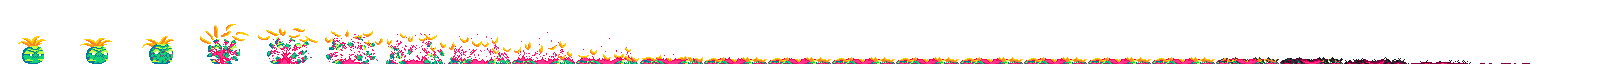
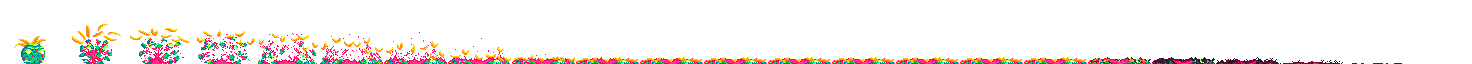
Tweaked enemy death animation and tile size

Changed region(s): [[0.0, 0.375, 0.9688, 1.0], [0.0625, 0.375, 0.0938, 0.4062]]

diff --git a/tiled/tiles.tsx b/tiled/tiles.tsx
@@ -1,4 +1,4 @@
 <?xml version="1.0" encoding="UTF-8"?>
-<tileset version="1.5" tiledversion="1.7.0" name="tiles" tilewidth="16" tileheight="16" tilecount="2" columns="2">
- <image source="../res/tileset.png" width="32" height="16"/>
+<tileset version="1.5" tiledversion="1.7.0" name="tileset" tilewidth="32" tileheight="32" tilecount="2" columns="2">
+ <image source="../res/tileset.png" width="64" height="32"/>
 </tileset>

diff --git a/level.py b/level.py
@@ -50,10 +50,21 @@ class Level:
             self.camera_offset.x = self.player.position.x - (shared.DISPLAY_WIDTH * 0.4)
         elif self.player.position.x - self.camera_offset.x > shared.DISPLAY_WIDTH * 0.6:
             self.camera_offset.x = self.player.position.x - (shared.DISPLAY_WIDTH * 0.6)
+
+        if self.player.position.y - self.camera_offset.y < shared.DISPLAY_HEIGHT * 0.4:
+            self.camera_offset.y = self.player.position.y - (shared.DISPLAY_HEIGHT * 0.4)
+        elif self.player.position.y - self.camera_offset.y > shared.DISPLAY_HEIGHT * 0.6:
+            self.camera_offset.y = self.player.position.y - (shared.DISPLAY_HEIGHT * 0.6)
+
         if self.camera_offset.x < 0:
             self.camera_offset.x = 0
         elif self.camera_offset.x > (len(self.tiles[0]) * shared.TILE_SIZE) - shared.DISPLAY_WIDTH:
             self.camera_offset.x = (len(self.tiles[0]) * shared.TILE_SIZE) - shared.DISPLAY_WIDTH
+
+        if self.camera_offset.y < 0:
+            self.camera_offset.y = 0
+        elif self.camera_offset.y > (len(self.tiles) * shared.TILE_SIZE) - shared.DISPLAY_HEIGHT:
+            self.camera_offset.y = (len(self.tiles) * shared.TILE_SIZE) - shared.DISPLAY_HEIGHT
 
         self.particles += self.player.get_particles()
         if input.is_pressed[input.PLAYER_SHOOT]:
@@ -70,7 +81,7 @@ class Level:
             if enemy_obj is not None:
                 enemy_obj.take_damage()
                 if not enemy_obj.is_alive():
-                    self.particles.append((animation.Animation('onion_death', 13), enemy_obj.position.minus(shared.Vector(18, 32)).as_tuple()))
+                    self.particles.append((animation.Animation('onion_death', 10), enemy_obj.position.minus(shared.Vector(18, 32)).as_tuple()))
                     if enemy_obj.run_animation.flip_h:
                         self.particles[len(self.particles) - 1][0].flip_h = True
                     self.enemies.remove(enemy_obj)

diff --git a/shared.py b/shared.py
@@ -3,7 +3,7 @@ import math
 
 DISPLAY_WIDTH = 640
 DISPLAY_HEIGHT = 360
-TILE_SIZE = 16
+TILE_SIZE = 32
 
 
 class Color:
